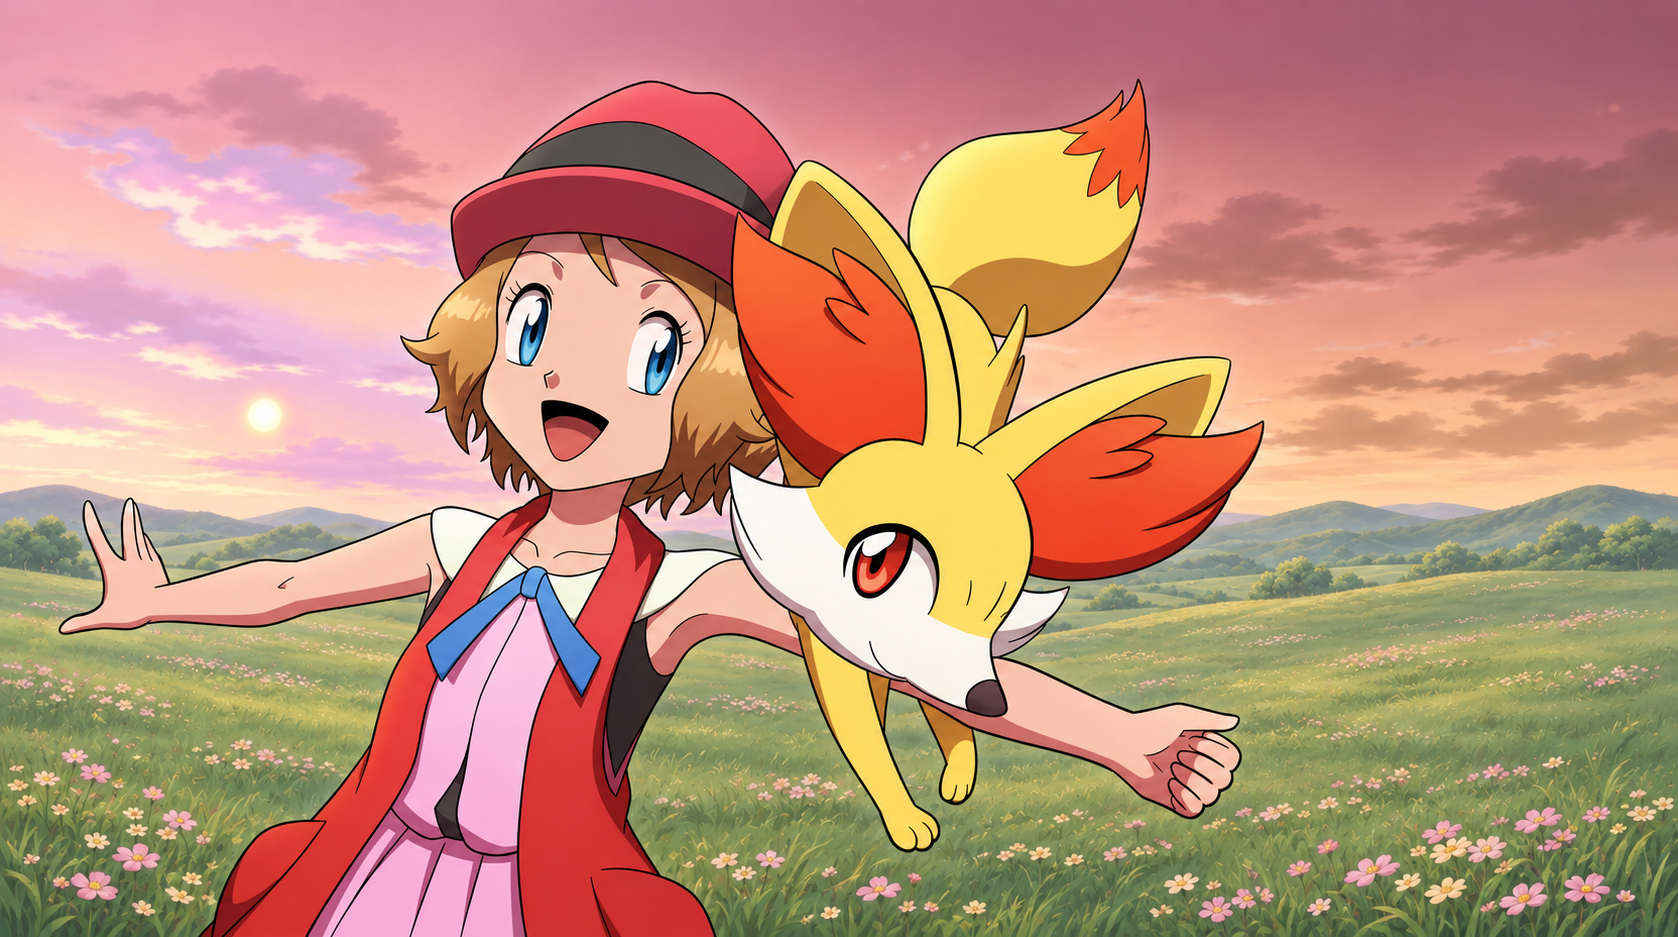
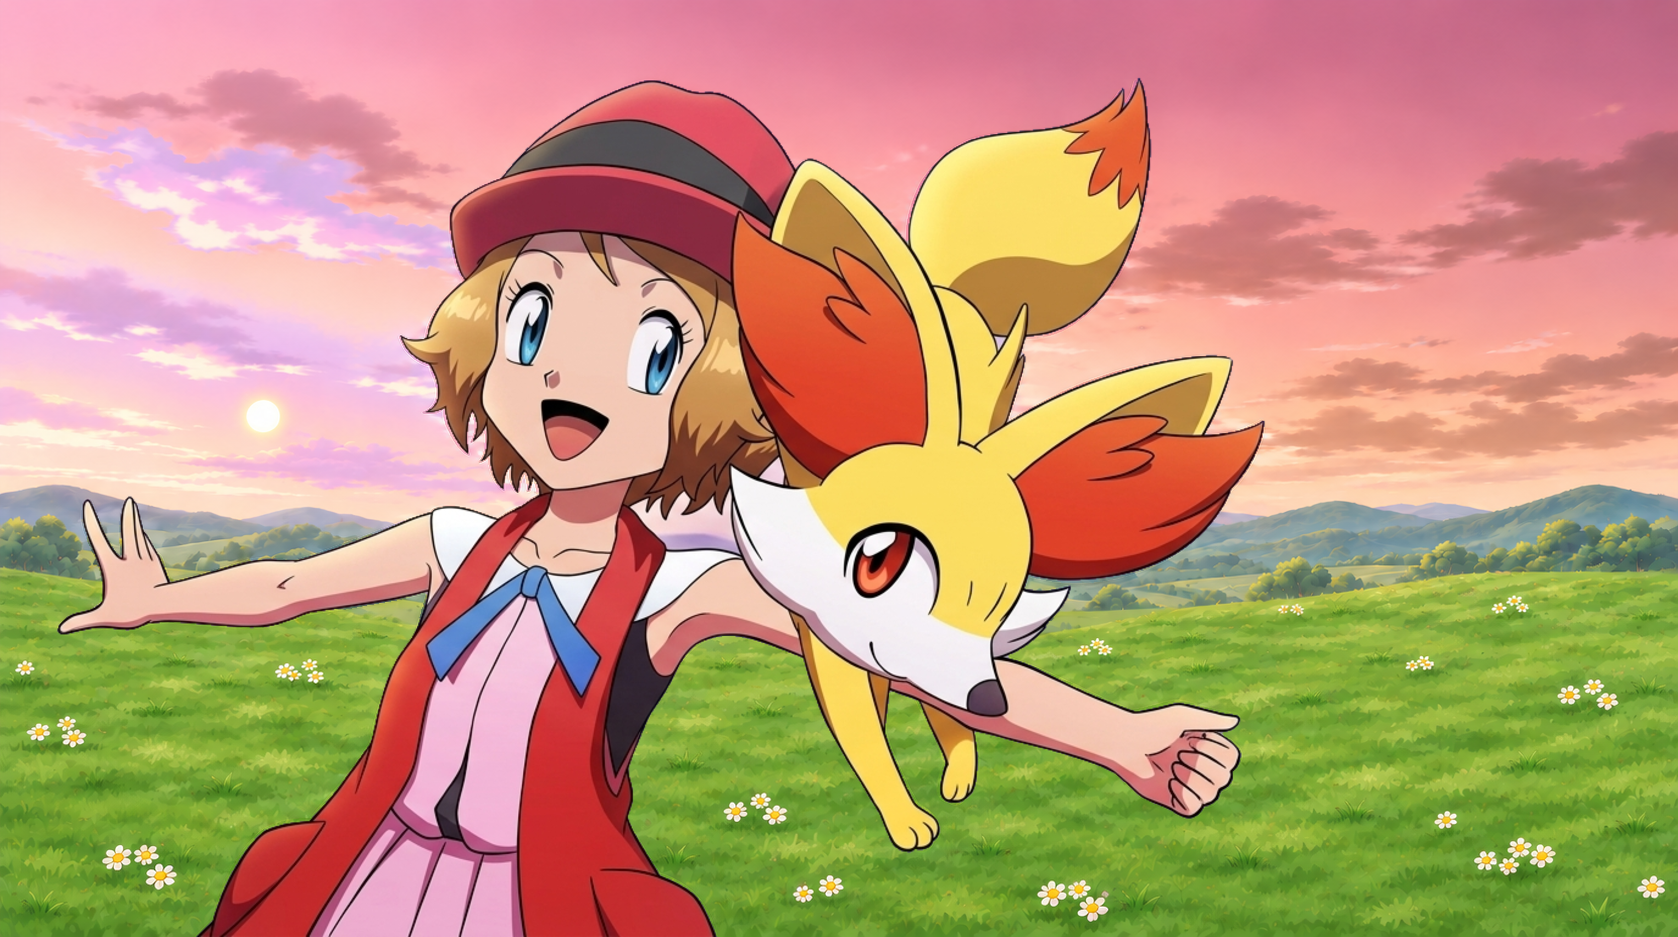
feat(wallpaper): add character restoration layers and fixed grass wallpaper

diff --git a/dev_tools/wallpaper_generator/layers/README.md b/dev_tools/wallpaper_generator/layers/README.md
@@ -1,0 +1,22 @@
+# Original character restoration
+
+The final character colors and linework are copied from `../serena_fennekin_original.jpg`. The native layer is 1376 × 768 and is resized once to the wallpaper canvas, 1678 × 937.
+
+`character_extraction_guide.png` is a built-in image_gen cutout used only to guide segmentation. Its generated character RGB is not used in the restored wallpaper. The matte is refined against the source's original dark contours; antialiased edge pixels are blended during compositing.
+
+`sunset_background_plate.png` is a built-in image_gen background plate. It fills only the previous character silhouette. `sunset_before_character_restore.png` preserves the approved wallpaper before restoration. Visible background outside the replacement area stays unchanged.
+
+Run `perl dev_tools/wallpaper_generator/restore_original_characters.pl` from the repository root to rebuild the foreground and background layers and update `assets/wallpapers/serena_fennekin_wallpaper_grass_fixed.png`. This command does not install or apply the wallpaper. Use `--output /tmp/serena_wallpaper.png` to render a separate copy.
+
+Intermediate masks and the native foreground layer are created in a temporary directory and removed automatically. Old previews, comparisons and redundant backups are not needed to rebuild the final wallpaper.
+
+Validation on 2026-11-19:
+
+- All 344,527 fully opaque native character pixels match the decoded original RGB exactly.
+- All 1,037,807 background pixels outside the replacement area match the approved wallpaper exactly.
+- Foreground details and edges were visually compared with the original, including eyes, nose, fingers, ribbon, tail and toes.
+- The installed desktop and lock-screen files match the restored wallpaper.
+
+Successful generation prompts are in [restoration_prompts.txt](restoration_prompts.txt).
+
+For future background edits, edit the background layer separately and composite `original_character_layer_wallpaper.png` over it. Keep the source foreground layer intact.
